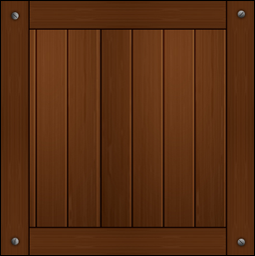
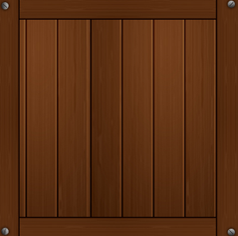
change background and crop obstacles

Changed region(s): [[0.0, 0.0, 1.0, 1.0]]

diff --git a/src/Obstacles.py b/src/Obstacles.py
@@ -11,29 +11,52 @@ class Obstacles:
         self.image_2 = pygame.image.load("../media/pumpkin_2.png")
         self.image_3 = pygame.image.load("../media/ghost.png")
         self.list_image = [self.image_1, self.image_2, self.image_3]
-        self.x = 420
-        self.y = 180
+        self.x = random.randrange(250, 350)
+        self.y = random.randrange(190, 250)
         self.obstacles = []
         # construct obstacle
-        for k in range(2):
+        for k in range(1):
             for k in range(2):
                 self.a = random.randint(0, 2)
                 self.obstacles.append(Obstacle(screen, self.x, self.y, 85, 85,
                                                self.list_image[self.a]))
                 self.y += 77
-            self.x += 500
-            self.y = 180
-        self.y = 450
-        self.x = 420
 
-        for k in range(2):
-            for k in range(2):
+        self.x = random.randrange(500, 700)
+        self.c = self.x
+        self.y = random.randrange(450, 550)
+        for i in range(2):
+            for _ in range(2 - i):
                 self.a = random.randint(0, 2)
                 self.obstacles.append(Obstacle(screen, self.x, self.y, 85, 85,
                                                self.list_image[self.a]))
-                self.y += 77
-            self.x += 500
-            self.y = 450
+                self.x += 75
+            self.y += 75
+            self.x = self.c + 75 / 2
+
+        self.x = random.randrange(1000, 1110)
+        self.c = self.x
+        self.y = random.randrange(150, 300)
+        for k in range(2):
+            for _ in range(2):
+                self.a = random.randint(0, 2)
+                self.obstacles.append(Obstacle(screen, self.x, self.y, 85, 85,
+                                               self.list_image[self.a]))
+                self.x += 75
+            self.y += 75
+            self.x =self.c
+
+        self.x = random.randrange(550, 750)
+        self.c = self.x
+        self.y = random.randrange(135, 160)
+        for k in range(2):
+            for _ in range(2):
+                self.a = random.randint(0, 2)
+                self.obstacles.append(Obstacle(screen, self.x, self.y, 85, 85,
+                                               self.list_image[self.a]))
+                self.x += 75
+            self.y += 75
+            self.x = self.c
         # construct the field
         self.image1 = pygame.image.load("../media/obstacle 1.png")
         self.image2 = pygame.image.load("../media/obstacle 2.png")

diff --git a/src/View.py b/src/View.py
@@ -12,6 +12,7 @@ Quang Dao
 # DONE: Put the names of your entire team in the above doc-string.
 
 import pygame
+
 from Game import Game
 
 
@@ -19,9 +20,13 @@ class View:
     def __init__(self, screen: pygame.Surface, game: Game):
         self.screen = screen
         self.game = game
-        self.background_color = pygame.Color("orange")  # DONE: Choose own color
+        # self.background_color = pygame.Color("grey")  # DONE: Choose own color
+        self.image = pygame.image.load(
+            "../media/Background_1.jpg")
+        self.image_1 = pygame.transform.scale(self.image, (1430, 730))
 
     def draw_everything(self):
-        self.screen.fill(self.background_color)
+        # self.screen.fill(self.background_color)
+        self.screen.blit(self.image_1, (0, 0))
         self.game.draw_game()
         pygame.display.update()

diff --git a/src/Bullet.py b/src/Bullet.py
@@ -42,3 +42,4 @@ class Bullet:
     def explode(self):
         self.has_exploded = True
 
+ 
